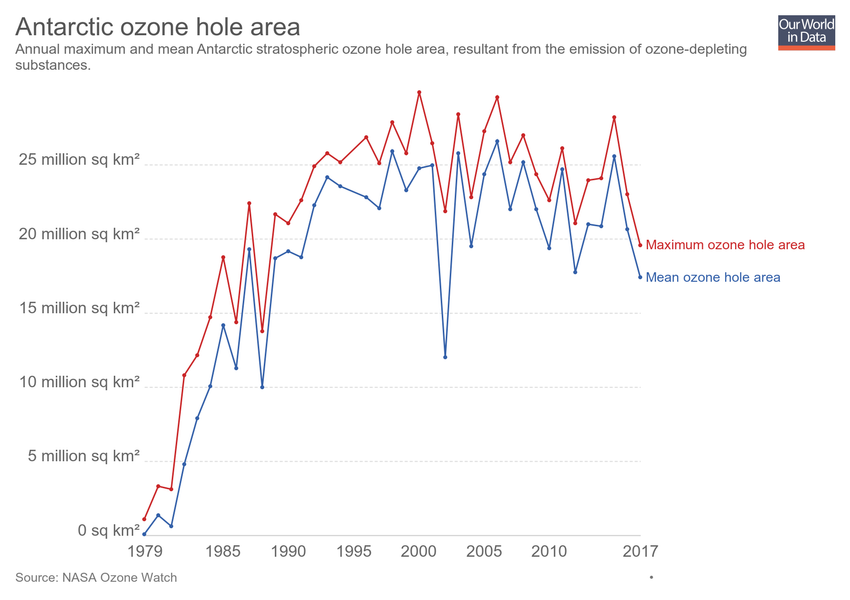
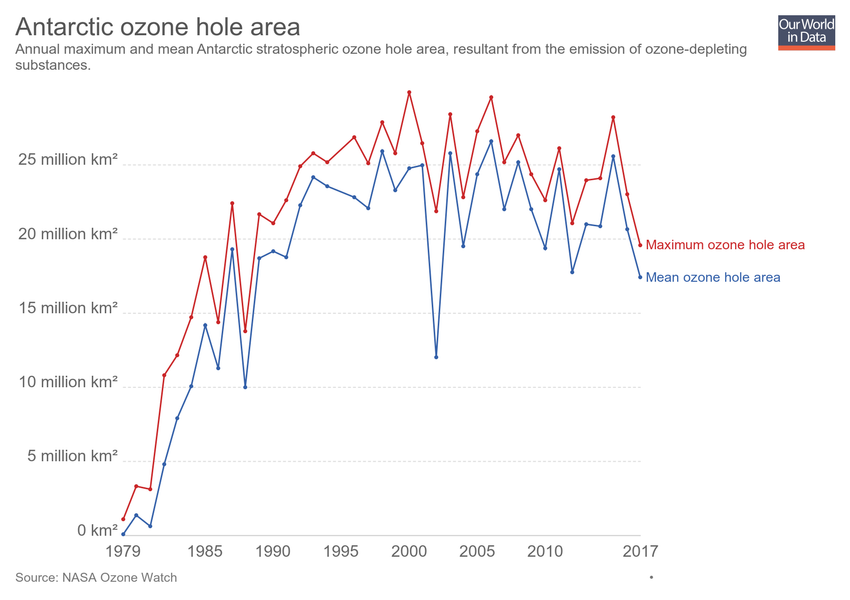
Updating chart antarctic-ozone-hole-area

diff --git a/grapher/antarctic-ozone-hole-area.html b/grapher/antarctic-ozone-hole-area.html
@@ -1,4 +1,4 @@
-<!doctype html><html><head><meta name="viewport" content="width=device-width, initial-scale=1" /><title>Antarctic ozone hole area - Our World in Data</title><meta name="description" content="Annual maximum and mean Antarctic stratospheric ozone hole area, resultant from the emission of ozone-depleting substances." /><link rel="canonical" href="https://ourworldindata.org/grapher/antarctic-ozone-hole-area" /><meta property="fb:app_id" content="1149943818390250" /><meta property="og:url" content="https://ourworldindata.org/grapher/antarctic-ozone-hole-area" /><meta property="og:title" content="Antarctic ozone hole area" /><meta property="og:description" content="Annual maximum and mean Antarctic stratospheric ozone hole area, resultant from the emission of ozone-depleting substances." /><meta property="og:image" content="https://ourworldindata.org/grapher/exports/antarctic-ozone-hole-area.png?v=5" /><meta property="og:image:width" content="850" /><meta property="og:image:height" content="600" /><meta property="og:site_name" content="Our World in Data" /><meta name="twitter:card" content="summary_large_image" /><meta name="twitter:site" content="@OurWorldInData" /><meta name="twitter:creator" content="@OurWorldInData" /><meta name="twitter:title" content="Antarctic ozone hole area" /><meta name="twitter:description" content="Annual maximum and mean Antarctic stratospheric ozone hole area, resultant from the emission of ozone-depleting substances." /><meta name="twitter:image" content="https://ourworldindata.org/grapher/exports/antarctic-ozone-hole-area.png?v=5" /><style>
+<!doctype html><html><head><meta name="viewport" content="width=device-width, initial-scale=1" /><title>Antarctic ozone hole area - Our World in Data</title><meta name="description" content="Annual maximum and mean Antarctic stratospheric ozone hole area, resultant from the emission of ozone-depleting substances." /><link rel="canonical" href="https://ourworldindata.org/grapher/antarctic-ozone-hole-area" /><meta property="fb:app_id" content="1149943818390250" /><meta property="og:url" content="https://ourworldindata.org/grapher/antarctic-ozone-hole-area" /><meta property="og:title" content="Antarctic ozone hole area" /><meta property="og:description" content="Annual maximum and mean Antarctic stratospheric ozone hole area, resultant from the emission of ozone-depleting substances." /><meta property="og:image" content="https://ourworldindata.org/grapher/exports/antarctic-ozone-hole-area.png?v=6" /><meta property="og:image:width" content="850" /><meta property="og:image:height" content="600" /><meta property="og:site_name" content="Our World in Data" /><meta name="twitter:card" content="summary_large_image" /><meta name="twitter:site" content="@OurWorldInData" /><meta name="twitter:creator" content="@OurWorldInData" /><meta name="twitter:title" content="Antarctic ozone hole area" /><meta name="twitter:description" content="Annual maximum and mean Antarctic stratospheric ozone hole area, resultant from the emission of ozone-depleting substances." /><meta name="twitter:image" content="https://ourworldindata.org/grapher/exports/antarctic-ozone-hole-area.png?v=6" /><style>
         html, body {
             height: 100%;
             margin: 0;
@@ -20,8 +20,8 @@
         }
     </style><noscript><style>
                     figure { display: none !important; }
-                </style></noscript><link rel="stylesheet" href="https://ourworldindata.org/grapher/assets/commons.bundle.dcbbe53805c487d5e57617b10ac73a8a.css" /><link rel="preload" href="/grapher/data/variables/96611+96649.json?v=5" as="fetch" crossorigin /></head><body class="singleChart"><figure data-grapher-src="/grapher/antarctic-ozone-hole-area"></figure><noscript id="fallback"><img src="/grapher/exports/antarctic-ozone-hole-area.svg" /><p>Interactive visualization requires JavaScript</p></noscript><script src="https://cdn.polyfill.io/v2/polyfill.min.js?features=es6,fetch"></script><script src="https://ourworldindata.org/grapher/assets/commons.bundle.da523acc49807a06a11f.js"></script><script src="https://ourworldindata.org/grapher/assets/charts.bundle.da523acc49807a06a11f.js"></script><script>
-        var jsonConfig = {"id":2537,"map":{"projection":"World","colorSchemeLabels":[],"colorSchemeValues":[],"colorSchemeMinValue":0,"customNumericColors":[],"customCategoryColors":{},"customCategoryLabels":{},"customHiddenCategories":{}},"tab":"chart","slug":"antarctic-ozone-hole-area","type":"LineChart","title":"Antarctic ozone hole area","xAxis":{"scaleType":"linear"},"yAxis":{"min":0,"scaleType":"linear"},"version":5,"subtitle":"Annual maximum and mean Antarctic stratospheric ozone hole area, resultant from the emission of ozone-depleting substances.","hasMapTab":false,"stackMode":"absolute","dimensions":[{"display":{"name":"Maximum ozone hole area","unit":"square kilometres","shortUnit":"sq km²","conversionFactor":1000000},"property":"y","variableId":96611},{"display":{"unit":"square kilometres","shortUnit":"sq km²","conversionFactor":1000000},"property":"y","variableId":96649}],"sourceDesc":"NASA Ozone Watch","hasChartTab":true,"isPublished":true,"selectedData":[{"index":0,"entityId":355},{"index":1,"entityId":355}],"addCountryMode":"change-country","hideTitleAnnotation":true};
+                </style></noscript><link rel="stylesheet" href="https://ourworldindata.org/grapher/assets/commons.bundle.dcbbe53805c487d5e57617b10ac73a8a.css" /><link rel="preload" href="/grapher/data/variables/96611+96649.json?v=6" as="fetch" crossorigin /></head><body class="singleChart"><figure data-grapher-src="/grapher/antarctic-ozone-hole-area"></figure><noscript id="fallback"><img src="/grapher/exports/antarctic-ozone-hole-area.svg" /><p>Interactive visualization requires JavaScript</p></noscript><script src="https://cdn.polyfill.io/v2/polyfill.min.js?features=es6,fetch"></script><script src="https://ourworldindata.org/grapher/assets/commons.bundle.da523acc49807a06a11f.js"></script><script src="https://ourworldindata.org/grapher/assets/charts.bundle.da523acc49807a06a11f.js"></script><script>
+        var jsonConfig = {"id":2537,"map":{"projection":"World","colorSchemeLabels":[],"colorSchemeValues":[],"colorSchemeMinValue":0,"customNumericColors":[],"customCategoryColors":{},"customCategoryLabels":{},"customHiddenCategories":{}},"tab":"chart","slug":"antarctic-ozone-hole-area","type":"LineChart","title":"Antarctic ozone hole area","xAxis":{"scaleType":"linear"},"yAxis":{"min":0,"scaleType":"linear"},"version":6,"subtitle":"Annual maximum and mean Antarctic stratospheric ozone hole area, resultant from the emission of ozone-depleting substances.","hasMapTab":false,"stackMode":"absolute","dimensions":[{"display":{"name":"Maximum ozone hole area","unit":"square kilometres","shortUnit":"km²","conversionFactor":1000000},"property":"y","variableId":96611},{"display":{"unit":"square kilometres","shortUnit":"km²","conversionFactor":1000000},"property":"y","variableId":96649}],"sourceDesc":"NASA Ozone Watch","hasChartTab":true,"isPublished":true,"selectedData":[{"index":0,"entityId":355},{"index":1,"entityId":355}],"addCountryMode":"change-country","hideTitleAnnotation":true};
         var figure = document.getElementsByTagName("figure")[0];
         try {
             window.App = {};
